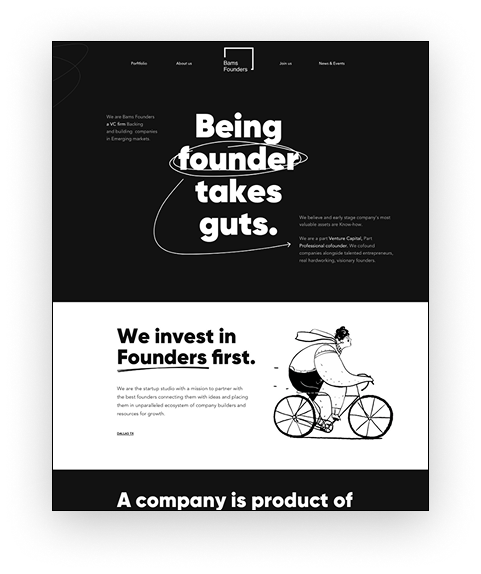
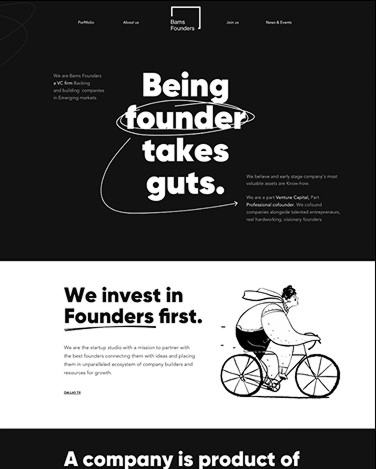
create latest works section

diff --git a/tailor/index.html b/tailor/index.html
@@ -125,19 +125,19 @@
                     <img class="latest-works__feature-icon" src="images/uzumaki.png" alt srcset>
                 </div>
                 <div class="latest-works__feature-media">
-                    <div class="latest-works__media-image">
-                        <img src="images/company-product.png" alt>
-                        <p>(01) Landing page</p>
+                    <div class="latest-works__media-content">
+                        <img src="images/company-product.png">
+                        <p class="latest-works__media-text">(01) Landing page</p>
                     </div>
 
-                    <div class="latest-works__media-image">
-                        <img src="images/the-office-future.png" alt>
-                        <p>(2) Landing page</p>
+                    <div class="latest-works__media-content">
+                        <img src="images/office-future.png">
+                        <p class="latest-works__media-text">(2) Landing page</p>
                     </div>
 
-                    <div class="latest-works__media-image">
-                        <img src="images/about-the-meeting.png" alt>
-                        <p>(03) Landing page</p>
+                    <div class="latest-works__media-content">
+                        <img src="images/meeting-about.png">
+                        <p class="latest-works__media-text">(03) Landing page</p>
                     </div>
                 </div>
             </div>

diff --git a/tailor/style.css b/tailor/style.css
@@ -381,12 +381,12 @@
         flex-direction: column;
         justify-content: center;
         gap: 86px;
+        padding: 55px 350px;
 
         .latest-works__feature-content {
             display: flex;
             align-items: center;
-            justify-content: center;
-            gap: 226px;
+            justify-content: space-between;
             position: relative;
             
 
@@ -397,6 +397,7 @@
                 line-height: 150%;
                 font-size: 64px;
                 text-decoration: underline;
+                
 
                 span{
                     text-decoration: underline;
@@ -417,16 +418,30 @@
 
             .latest-works__feature-icon {
                position: absolute;
-               right: 250px;
+               right: -50px;
                bottom: -50px;
                 
             }
         }
 
         .latest-works__feature-media {
+           display: flex;
+           gap: 39px;
+
+           .latest-works__media-content {
             display: flex;
-            margin: 0 auto;
-            justify-self: center;
+            flex-direction: column;
+            gap: 33px;
+           }
+
+           .latest-works__media-text {
+            font-family: var(--font-montserrat);
+            font-weight: var(--weight-semibold);
+            color: var(--color-black-100);
+            line-height: 180%;
+            font-size: 22px;
+            text-align: center;
+           }
             
         }
     }
